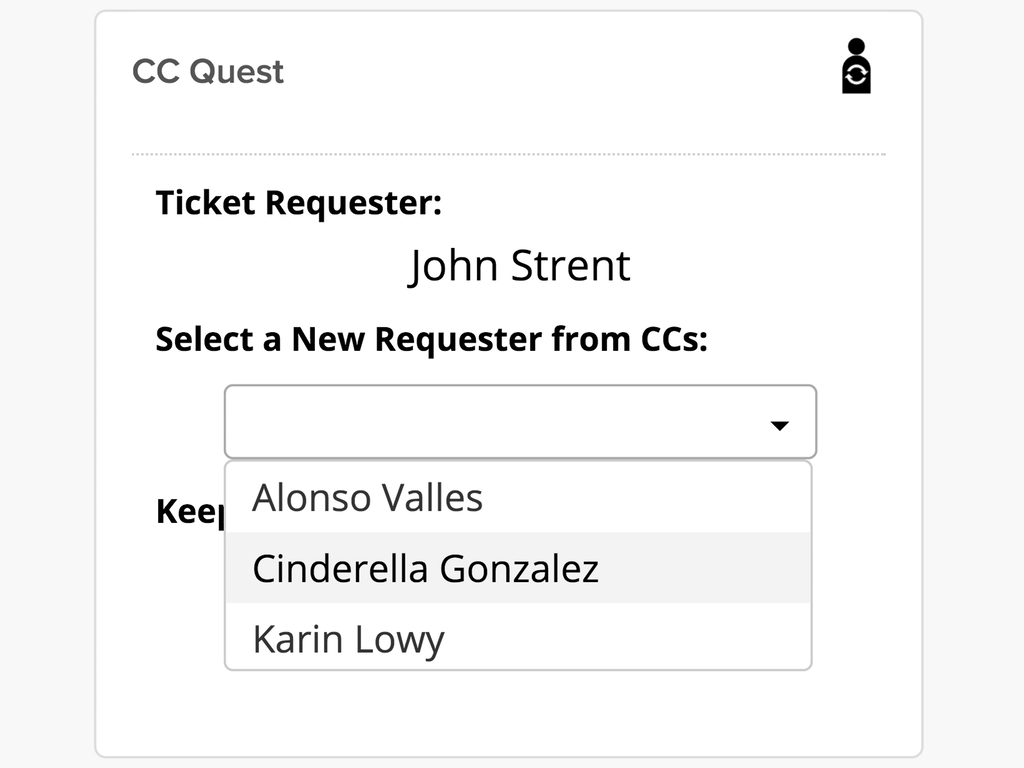
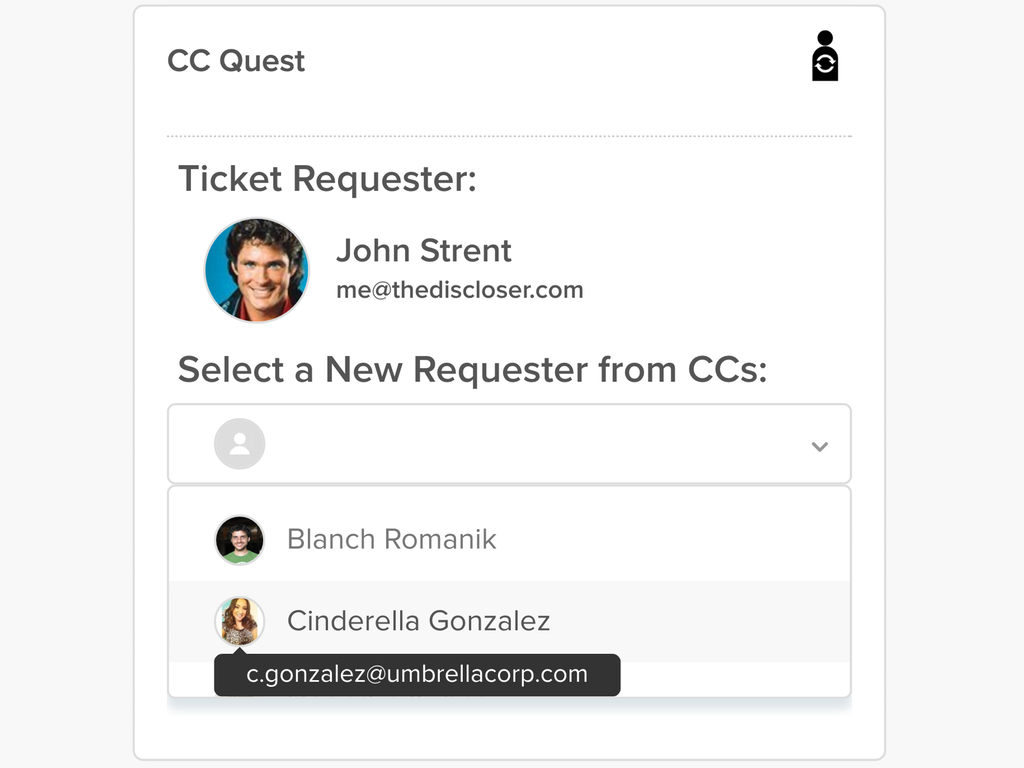
Updated screenshots

diff --git a/assets/iframe.html b/assets/iframe.html
@@ -19,9 +19,9 @@
       <figure class="c-avatar c-avatar--large">
         <img alt="user" id="requester-image" src="https://i0.wp.com/assets.zendesk.com/images/2016/default-avatar-80.png">
       </figure>
-      <span  id="requester"> Test
+      <span  id="requester"> 
       </span>
-      <span id="requester-email">Test
+      <span id="requester-email">
       </span>
     </div>
     <span class="label">
